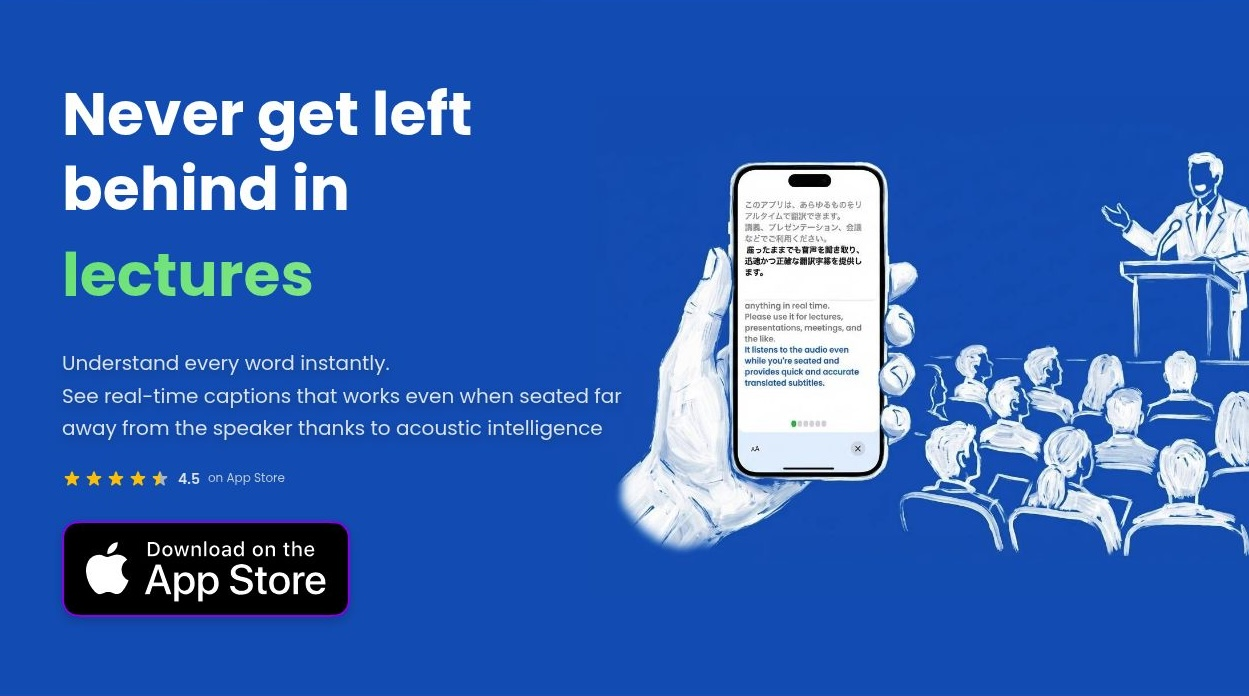
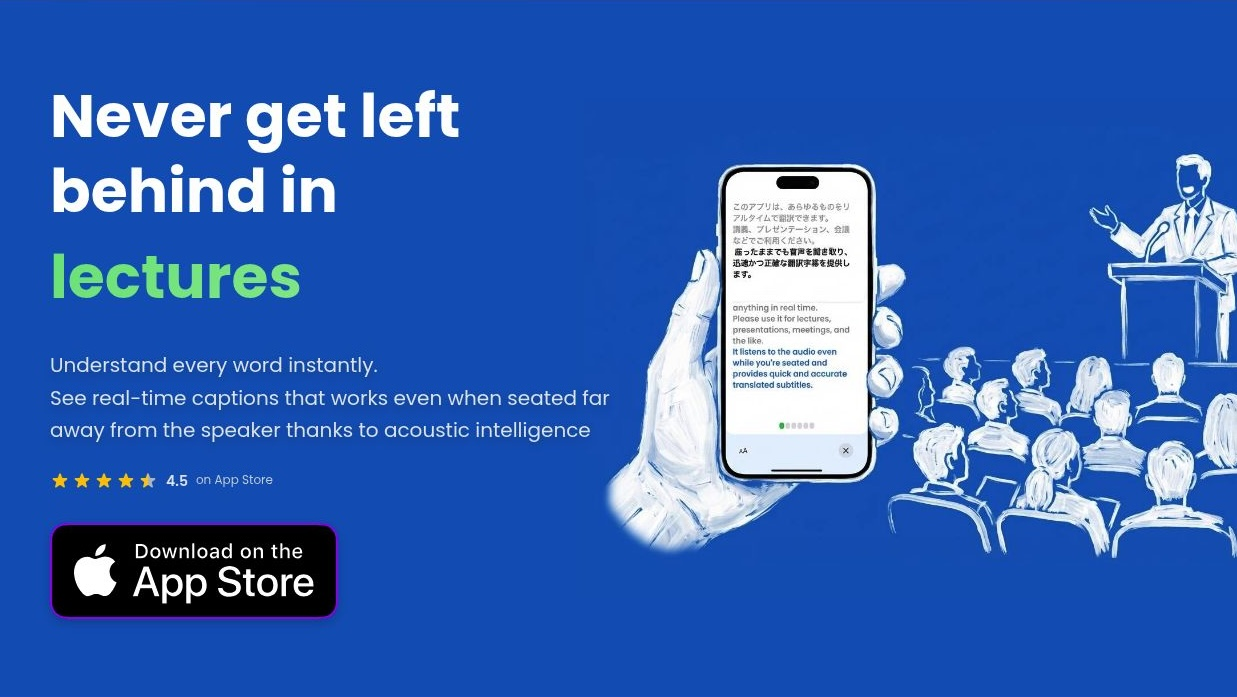
i18n

diff --git a/src/App.jsx b/src/App.jsx
@@ -3,16 +3,14 @@ import appStoreButton from "./assets/downloadbtn.svg";
 import appIcon from "./assets/AppIcon.jpg";
 import mockupImage from "./assets/mockuppromax.png";
 import backgroundImage from "./assets/ektolanding4.jpg";
+import { useLanguage } from "./i18n";
 
 function App() {
+  const { language, setLanguage, t, translations } = useLanguage();
   const [currentWord, setCurrentWord] = useState(0);
-  const words = [
-        "lectures",
-     "conferences",
-    "conversations",
-    "meetings",
-    "seminars",
-  ];
+  const [isLangMenuOpen, setIsLangMenuOpen] = useState(false);
+  
+  const words = t.hero.words;
 
   useEffect(() => {
     const interval = setInterval(() => {
@@ -21,6 +19,11 @@ function App() {
 
     return () => clearInterval(interval);
   }, [words.length]);
+
+  // Reset word index when language changes to avoid out-of-bounds
+  useEffect(() => {
+    setCurrentWord(0);
+  }, [language]);
 
   // Star rating component with proper half-star support
   const StarRating = ({ rating = 4.5, reviews = 16 }) => {
@@ -59,7 +62,7 @@ function App() {
           ))}
         </div>
         <span className="text-sm font-semibold text-gray-200">{rating}</span>
-        <span className="text-xs text-gray-300">on App Store</span>
+        <span className="text-xs text-gray-300">{t.hero.onAppStore}</span>
       </div>
     );
   };
@@ -75,17 +78,60 @@ function App() {
               alt="Live Translator Captions AI App"
               className="w-10 h-10 rounded-lg shadow-lg"
             />
-            <span className="text-xl font-bold text-gray-800">
+            <span className="text-xl font-bold text-gray-800 hidden sm:inline">
               Live Translator: Captions AI
             </span>
           </div>
-          <a
-            href="https://apps.apple.com/app/id6740196773"
-            className="bg-gradient-to-r from-blue-500 to-blue-700 text-white px-6 py-2 rounded-lg hover:from-blue-600 hover:to-blue-800 transition-all duration-300 shadow-lg backdrop-blur-sm"
-            aria-label="Download AI Voice Translator App"
-          >
-            Download
-          </a>
+          <div className="flex items-center gap-3">
+            {/* Language Selector */}
+            {/* <div className="relative">
+              <button
+                onClick={() => setIsLangMenuOpen(!isLangMenuOpen)}
+                className="flex items-center gap-2 px-3 py-2 rounded-lg bg-white/60 hover:bg-white/80 transition-all duration-200 border border-white/40 shadow-sm"
+                aria-label="Select language"
+              >
+                <span className="text-lg">{translations[language].flag}</span>
+                <span className="text-sm font-medium text-gray-700 hidden sm:inline">{translations[language].name}</span>
+                <svg className={`w-4 h-4 text-gray-500 transition-transform ${isLangMenuOpen ? 'rotate-180' : ''}`} fill="none" stroke="currentColor" viewBox="0 0 24 24">
+                  <path strokeLinecap="round" strokeLinejoin="round" strokeWidth={2} d="M19 9l-7 7-7-7" />
+                </svg>
+              </button>
+              
+              {isLangMenuOpen && (
+                <>
+                  <div 
+                    className="fixed inset-0 z-40" 
+                    onClick={() => setIsLangMenuOpen(false)}
+                  />
+                  <div className="absolute right-0 top-full mt-2 py-2 w-40 bg-white rounded-xl shadow-xl border border-gray-100 z-50">
+                    {Object.values(translations).map((lang) => (
+                      <button
+                        key={lang.code}
+                        onClick={() => {
+                          setLanguage(lang.code);
+                          setIsLangMenuOpen(false);
+                        }}
+                        className={`w-full px-4 py-2 text-left flex items-center gap-3 hover:bg-blue-50 transition-colors ${
+                          language === lang.code ? 'bg-blue-50 text-blue-700' : 'text-gray-700'
+                        }`}
+                      >
+                        <span className="text-lg">{lang.flag}</span>
+                        <span className="text-sm font-medium">{lang.name}</span>
+                      </button>
+                    ))}
+                  </div>
+                </>
+              )}
+            </div> */}
+
+            <a
+              href="https://apps.apple.com/app/id6740196773"
+              className="bg-gradient-to-r from-blue-500 to-blue-700 text-white px-4 sm:px-6 py-2 rounded-lg hover:from-blue-600 hover:to-blue-800 transition-all duration-300 shadow-lg backdrop-blur-sm text-sm sm:text-base"
+              aria-label="Download AI Voice Translator App"
+            >
+              {t.hero.download}
+            </a>
+          </div>
         </div>
       </header>
 
@@ -106,7 +152,6 @@ function App() {
             {/* Left side - Content */}
             <div className="relative z-10">
               <h1 className="text-3xl md:text-5xl lg:text-6xl font-bold text-white mb-4 md:mb-6 leading-tight">
-                Never get left behind in 
                 <span className="block relative overflow-hidden h-14 md:h-20 lg:h-24">
                   <span
                     key={currentWord}
@@ -122,11 +167,12 @@ function App() {
                     {words[currentWord]}
                   </span>
                 </span>
+                <span className="block">{t.hero.tagline}</span>
               </h1>
               <p className="text-lg md:text-xl text-gray-200 mb-4 md:mb-6 leading-relaxed drop-shadow-lg md:mr-32 xl:mr-0">
-                Understand every word instantly. 
+                {t.hero.description}
                 <br></br>
-                See real-time captions that works even when seated far away from the speaker thanks to acoustic intelligence
+                {t.hero.descriptionLine2}
               </p>
 
               {/* Social Proof */}

diff --git a/src/i18n/translations.js b/src/i18n/translations.js
@@ -1,0 +1,102 @@
+export const translations = {
+  en: {
+    code: "en",
+    name: "English",
+    flag: "🇺🇸",
+    hero: {
+      words: ["Lectures", "Class", "Conversations", "Meetings", "Seminars"],
+      tagline: "too fast to follow?",
+      description: "Understand every word instantly.",
+      descriptionLine2: "See real-time captions that works even when seated far away from the speaker thanks to acoustic intelligence",
+      download: "Download",
+      onAppStore: "on App Store",
+    },
+  },
+  fr: {
+    code: "fr",
+    name: "Français",
+    flag: "🇫🇷",
+    hero: {
+      words: ["Conférences", "Cours", "Conversations", "Réunions", "Séminaires"],
+      tagline: "trop rapide à suivre ?",
+      description: "Comprenez chaque mot instantanément.",
+      descriptionLine2: "Voyez des sous-titres en temps réel qui fonctionnent même lorsque vous êtes assis loin de l'orateur grâce à l'intelligence acoustique",
+      download: "Télécharger",
+      onAppStore: "sur l'App Store",
+    },
+  },
+  it: {
+    code: "it",
+    name: "Italiano",
+    flag: "🇮🇹",
+    hero: {
+      words: ["Lezioni", "Corsi", "Conversazioni", "Riunioni", "Seminari"],
+      tagline: "troppo veloce da seguire?",
+      description: "Comprendi ogni parola istantaneamente.",
+      descriptionLine2: "Visualizza sottotitoli in tempo reale che funzionano anche quando sei seduto lontano dall'oratore grazie all'intelligenza acustica",
+      download: "Scarica",
+      onAppStore: "su App Store",
+    },
+  },
+  es: {
+    code: "es",
+    name: "Español",
+    flag: "🇪🇸",
+    hero: {
+      words: ["Conferencias", "Clases", "Conversaciones", "Reuniones", "Seminarios"],
+      tagline: "¿demasiado rápido para seguir?",
+      description: "Entiende cada palabra al instante.",
+      descriptionLine2: "Ve subtítulos en tiempo real que funcionan incluso cuando estás sentado lejos del orador gracias a la inteligencia acústica",
+      download: "Descargar",
+      onAppStore: "en App Store",
+    },
+  },
+  zh: {
+    code: "zh",
+    name: "中文",
+    flag: "🇨🇳",
+    hero: {
+      words: ["讲座", "课程", "对话", "会议", "研讨会"],
+      tagline: "语速太快跟不上？",
+      description: "即时理解每一个词。",
+      descriptionLine2: "借助声学智能技术，即使坐在远离演讲者的位置，也能看到实时字幕",
+      download: "下载",
+      onAppStore: "在 App Store",
+    },
+  },
+  ja: {
+    code: "ja",
+    name: "日本語",
+    flag: "🇯🇵",
+    hero: {
+      words: ["講義", "授業", "会話", "会議", "セミナー"],
+      tagline: "速すぎてついていけない？",
+      description: "すべての言葉を瞬時に理解。",
+      descriptionLine2: "音響インテリジェンスにより、話者から離れた席でもリアルタイム字幕が機能します",
+      download: "ダウンロード",
+      onAppStore: "App Store で",
+    },
+  },
+  ko: {
+    code: "ko",
+    name: "한국어",
+    flag: "🇰🇷",
+    hero: {
+      words: ["강의", "수업", "대화", "회의", "세미나"],
+      tagline: "너무 빨라서 못 따라가겠나요?",
+      description: "모든 단어를 즉시 이해하세요.",
+      descriptionLine2: "음향 지능 덕분에 발표자로부터 멀리 떨어져 앉아 있어도 실시간 자막이 작동합니다",
+      download: "다운로드",
+      onAppStore: "App Store에서",
+    },
+  },
+};
+
+export const supportedLanguages = Object.keys(translations);
+
+export const getDefaultLanguage = () => {
+  if (typeof navigator === "undefined") return "en";
+  
+  const browserLang = navigator.language?.split("-")[0];
+  return supportedLanguages.includes(browserLang) ? browserLang : "en";
+};

diff --git a/src/i18n/useLanguage.js b/src/i18n/useLanguage.js
@@ -1,0 +1,34 @@
+import { useState, useEffect, useCallback } from "react";
+import { translations, getDefaultLanguage, supportedLanguages } from "./translations";
+
+export const useLanguage = () => {
+  const [language, setLanguageState] = useState(() => {
+    // Check localStorage first
+    if (typeof window !== "undefined") {
+      const saved = localStorage.getItem("preferredLanguage");
+      if (saved && supportedLanguages.includes(saved)) {
+        return saved;
+      }
+    }
+    return getDefaultLanguage();
+  });
+
+  const setLanguage = useCallback((lang) => {
+    if (supportedLanguages.includes(lang)) {
+      setLanguageState(lang);
+      if (typeof window !== "undefined") {
+        localStorage.setItem("preferredLanguage", lang);
+      }
+    }
+  }, []);
+
+  const t = translations[language] || translations.en;
+
+  return {
+    language,
+    setLanguage,
+    t,
+    supportedLanguages,
+    translations,
+  };
+};

diff --git a/src/i18n/index.js b/src/i18n/index.js
@@ -1,0 +1,2 @@
+export { translations, supportedLanguages, getDefaultLanguage } from "./translations";
+export { useLanguage } from "./useLanguage";
